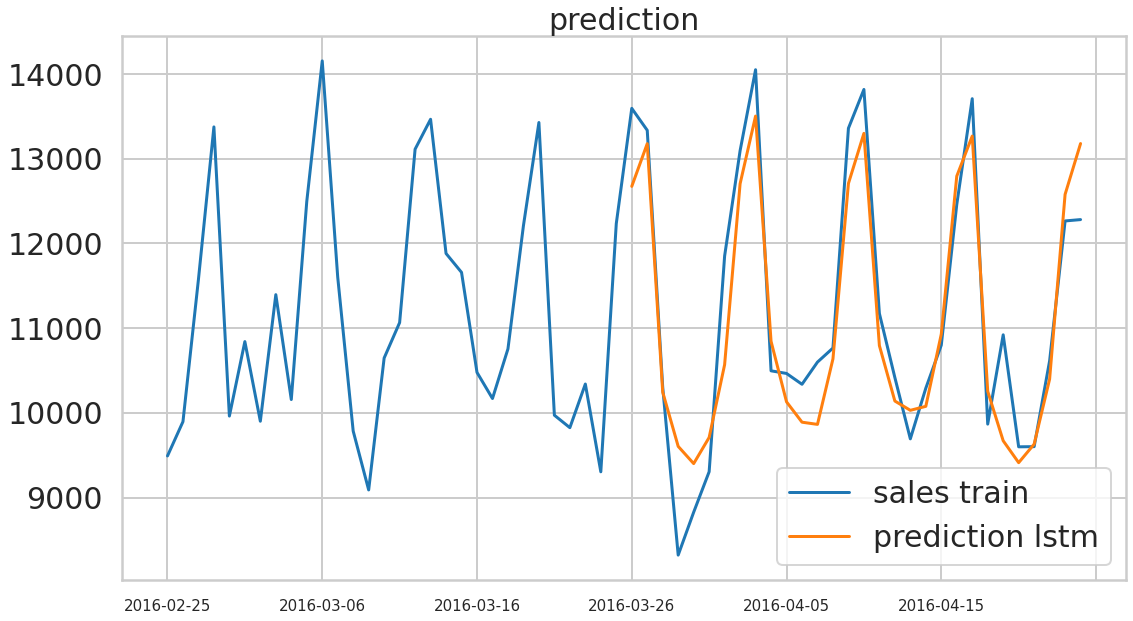
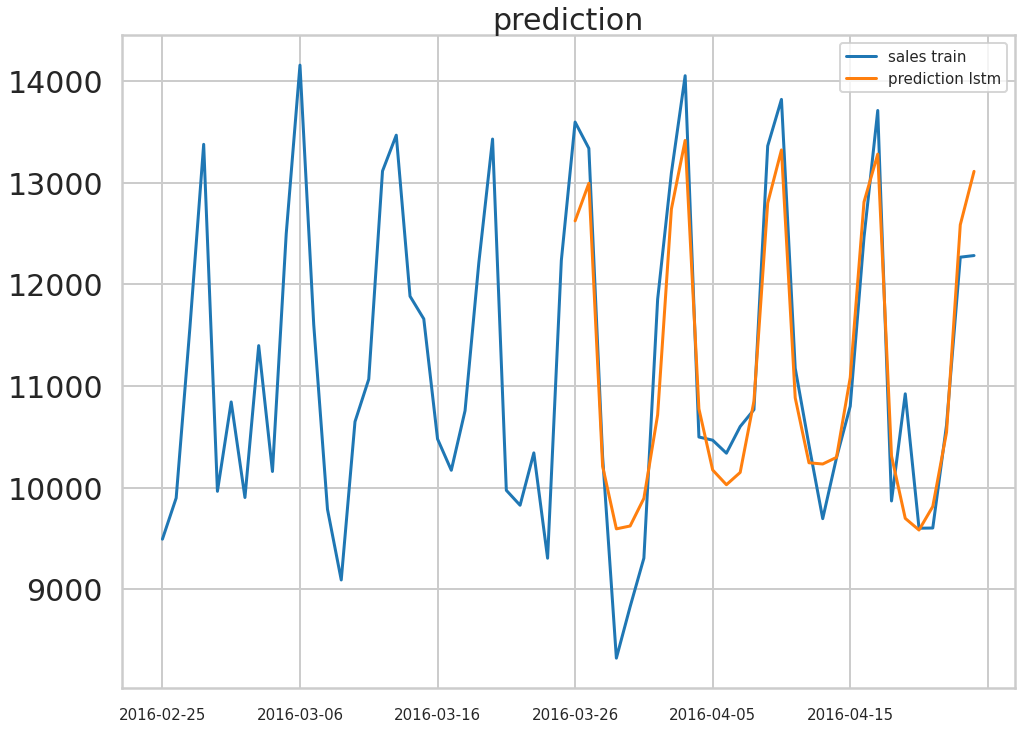
diploma add arima-lstm model

Changed region(s): [[0.0, 0.0, 1.0, 1.0], [0.9412, 0.3366, 0.9716, 0.3671]]

diff --git a/chapters/thesis-template-chapter4.tex b/chapters/thesis-template-chapter4.tex
@@ -219,6 +219,23 @@ $ p = 2, d = 0, q = 3, P = 0, D = 1, Q = 1, S = 7 $.
 модель, которую можно интерпретировать, а потом с помощью LSTM можно предсказывать остатки, которые будет
 давать SARIMAX. И эти остатки можно прибавлять к исходному предсказанию SARIMAX. Такой алгоритм
 не позволит повысить интерпретируемость предсказания, но позволит увеличить его точность.
+Другой вариант --- это использовать не остатки предсказаний ARIMAX модели, а
+сами предсказания в качестве одного из параметров LSTM модели \ref{img:lstm_with_arima_forecast}.
+Теоретически, это должно позволить LSTM сети быстрее обучиться.
+В результате эксперимента было замечено, что действительно качество предсказаний
+на малых итерациях при использовании предсказаний ARIMAX модели в LSTM модели
+позволили быстрее получить качественных результат. Но при увеличении количества итераций
+получить лучший результат по сравнению с использованием чистой LSTM модели не удалось.
+$ RMSSE = 0.000174 $ --- это даже больше, хотя и незначительно, чем у обычной LSTM.
+
+\def\figurename{Рис}
+\begin{figure}[t]
+	\centering
+	\includegraphics[width=0.4\columnwidth]{./img/lstm_with_arima_loss.png}
+	\includegraphics[width=0.4\columnwidth]{./img/lstm_with_arima_prediction.png}
+	\caption{Кривая потерь и предсказание LSTM-сети c использованием результатов предсказаний ARIMAX модели}
+	\label{img:lstm_with_arima_forecast}
+\end{figure}
 
 Результаты предсказаний с помощью модели LSTM очень похожи на результаты предсказаний
 с помощью SARIMAX. Стоит заметить, что LSTM была обучена и вычислялась с помощью GPU.
